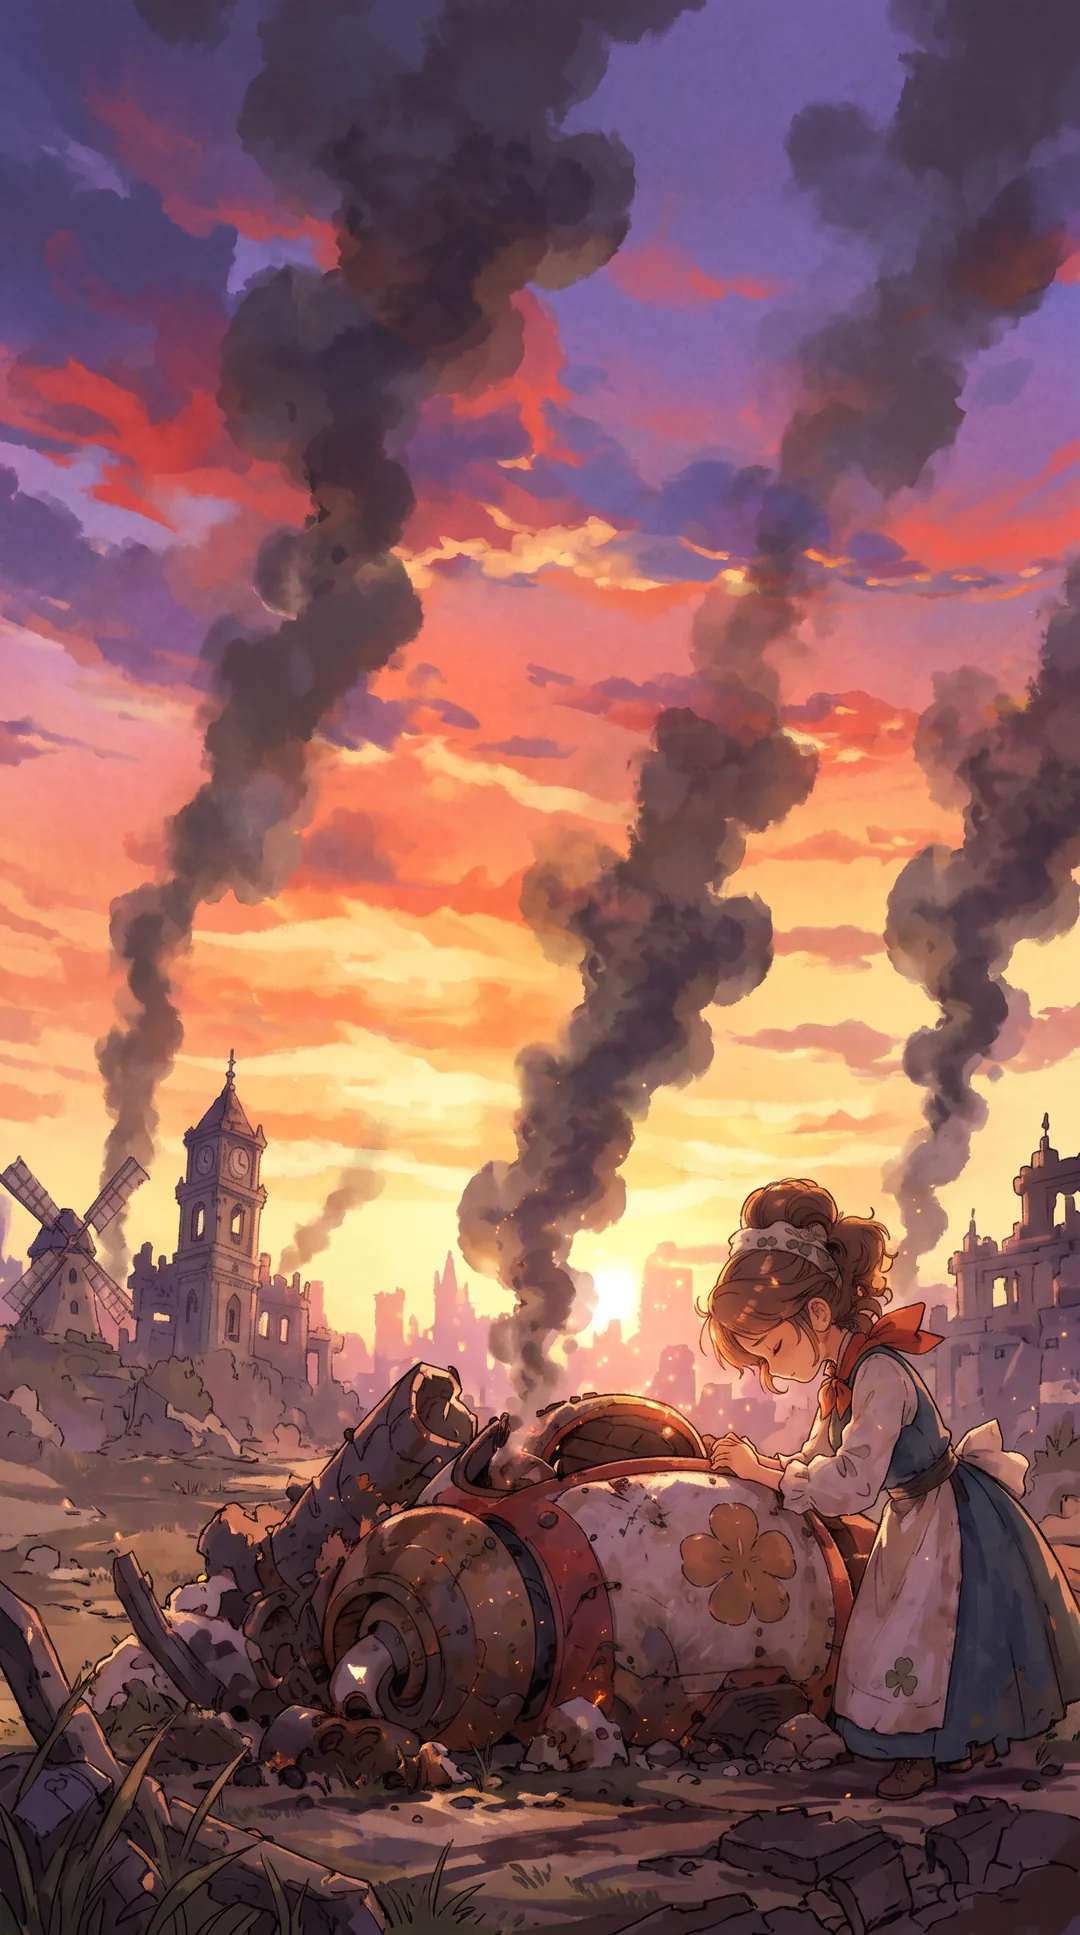
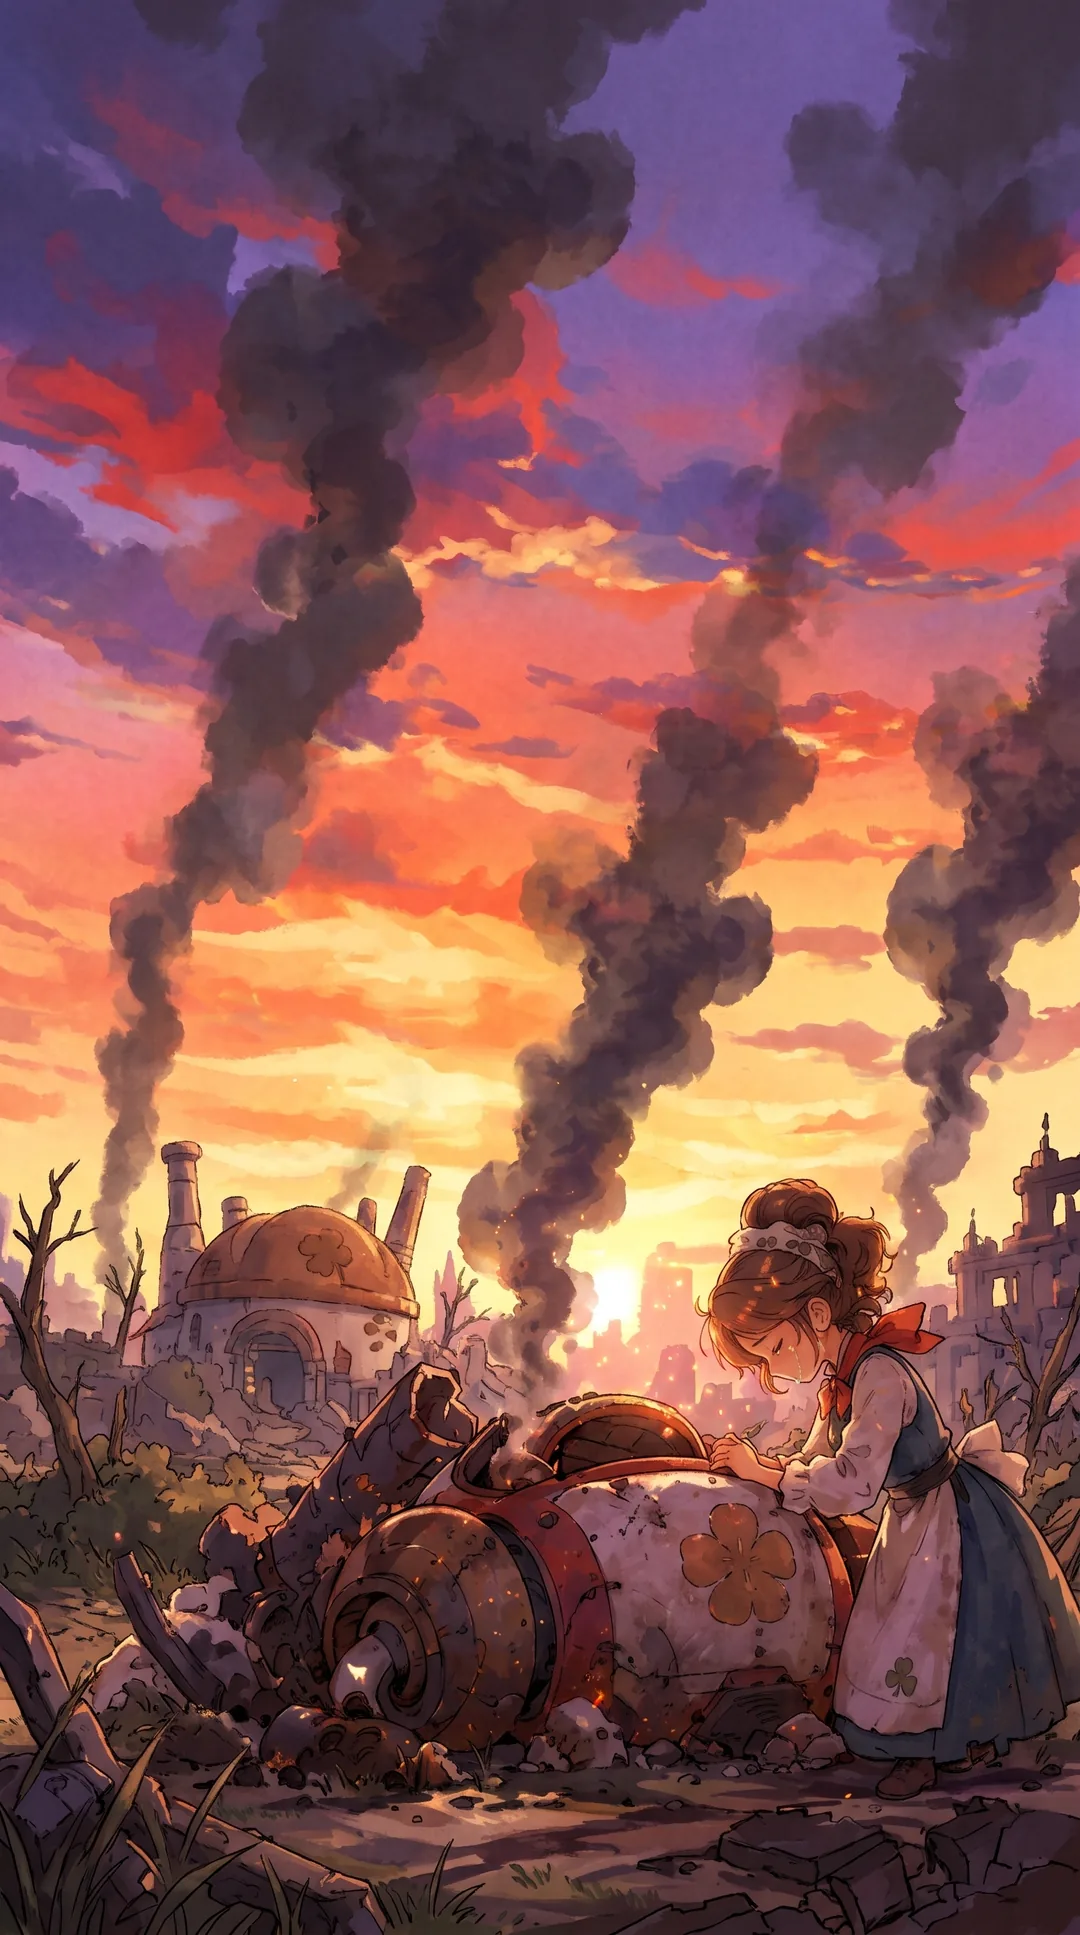
fuwao-3D: portrait/landscape ending images; ram needs the warning

diff --git a/game/fuwao-3D/main.js b/game/fuwao-3D/main.js
@@ -1926,6 +1926,7 @@ function startFinale() {
   const out = new THREE.Vector3(feet.x - boss.position.x, 0, feet.z - boss.position.z).normalize();   // ボスからふわおへ
   finale = { t: 0, phase: 'glow', out, look: new THREE.Vector3(), faded: false, burst: false, wreck: false, puff: 0, dust: [] };
   savingOn = false;   // つづきからは、最後の体当たりの前から
+  document.getElementById('endingImg').src = endingSrc();   // エンディングの絵を先に読んでおく
   // ロボははね返されて、パン種は顔の中へ
   jetting = false; jetEndTime = 0; jetSpeed = 0;
   jetVel.copy(out).multiplyScalar(RAM_BOUNCE * 1.4);
@@ -2076,30 +2077,47 @@ function finaleCamera(dt) {
   }
   sky.position.copy(camera.position);
 }
-// エンディング：縦長の絵（ending1.webp）を、空から下のメカとパン屋のお姉さんまで、ゆっくりスクロールする。
-// 下まで来たら、タイトルと「タイトルにもどる」が浮かぶ
-const ENDING_WAIT = 2.0;     // 絵が出てからスクロールし始めるまで（秒）
-const ENDING_SCROLL = 14;    // スクロールの長さ（秒）
-const ENDING_TALL = 1.5;     // 絵の高さは、画面の高さのこの倍以上にする（スマホの縦画面でもスクロールさせるため）
-const ENDING_FOCUS_X = 0.62; // 最後に画面のまん中に来る、絵の横の位置（メカとパン屋のお姉さん）
+// エンディング：画面の向きで絵と動きを使い分ける
+//   縦長の画面：縦の絵（ending1.webp）を、煙の立つ空から下のメカとパン屋のお姉さんまでスクロールする
+//   横長の画面：横の絵（ending1h.webp）を、左の崩れたパン工房から右のメカとお姉さんまで横に流す
+// 終わったら、タイトルと「タイトルにもどる」が浮かぶ
+const ENDING_WAIT = 2.0;     // 絵が出てから動き始めるまで（秒）
+const ENDING_SCROLL = 14;    // 動いている長さ（秒）
+const ENDING_TALL = 1.5;     // 縦の絵：高さは画面の高さのこの倍以上（スマホの縦画面でもスクロールさせるため）
+const ENDING_WIDE = 1.4;     // 横の絵：幅は画面の幅のこの倍以上（横に流すため）
+// 最後に画面のまん中に来る、絵の中の位置（メカとお姉さん）。[横, 縦]。横の絵は、上に浮かぶタイトルがお姉さんの頭にかからないよう少し上寄り
+const ENDING_FOCUS = { tall: [0.62, 1], wide: [0.8, 0.45] };
+const endingWide = () => window.innerWidth >= window.innerHeight;
+function endingSrc() { return endingWide() ? 'ending1h.webp' : 'ending1.webp'; }
 function showEnding() {
   finale.phase = 'ending';
   document.body.classList.remove('cutin');
   endingEl.classList.add('on');
   const img = document.getElementById('endingImg');
+  const src = endingSrc();
   const run = () => {
-    // 画面の幅より狭くせず、高さは画面の ENDING_TALL 倍以上。横にはみ出すときは、下へ進みながら横にもずらす
     const vw = window.innerWidth, vh = window.innerHeight, aspect = img.naturalWidth / img.naturalHeight;
-    const h = Math.max(vh * ENDING_TALL, vw / aspect), w = h * aspect;
+    const clampX = (x, w) => THREE.MathUtils.clamp(x, vw - w, 0), clampY = (y, h) => THREE.MathUtils.clamp(y, vh - h, 0);
+    let w, h, from, to;
+    if (src === 'ending1h.webp') {
+      // 横：左はしから、右のお姉さんまで。縦の位置はメカとお姉さんが入る高さ
+      w = Math.max(vw * ENDING_WIDE, vh * aspect); h = w / aspect;
+      const [fx, fy] = ENDING_FOCUS.wide, y = clampY(vh / 2 - fy * h, h);
+      from = [0, y]; to = [clampX(vw / 2 - fx * w, w), y];
+    } else {
+      // 縦：いちばん上の空から、下のメカとお姉さんまで。横にはみ出すときは、下へ進みながら横にもずらす
+      h = Math.max(vh * ENDING_TALL, vw / aspect); w = h * aspect;
+      from = [(vw - w) / 2, 0]; to = [clampX(vw / 2 - ENDING_FOCUS.tall[0] * w, w), vh - h];
+    }
     img.style.width = `${w}px`;
     img.style.height = `${h}px`;
-    const x0 = (vw - w) / 2, x1 = THREE.MathUtils.clamp(vw / 2 - ENDING_FOCUS_X * w, vw - w, 0);
-    img.style.transform = `translate(${x0}px, 0px)`;
-    img.animate([{ transform: `translate(${x0}px, 0px)` }, { transform: `translate(${x1}px, ${vh - h}px)` }],
+    img.style.transform = `translate(${from[0]}px, ${from[1]}px)`;
+    img.animate([{ transform: `translate(${from[0]}px, ${from[1]}px)` }, { transform: `translate(${to[0]}px, ${to[1]}px)` }],
       { duration: ENDING_SCROLL * 1000, delay: ENDING_WAIT * 1000, easing: 'ease-in-out', fill: 'forwards' })
       .finished.then(() => endingEl.classList.add('done'));
   };
-  if (img.complete) run(); else img.addEventListener('load', run, { once: true });
+  if (img.getAttribute('src') !== src) img.src = src;
+  if (img.complete && img.naturalWidth) run(); else img.addEventListener('load', run, { once: true });
 }
 // 転がるボス：動いている間は転がり始め → 転がる（進む速さに合わせてアニメの速さを変える）、止まったら待機へ
 let rolling = 0;   // 0 止まっている / 1 転がり始め / 2 転がっている
@@ -2188,7 +2206,8 @@ function collideBoss(dt) {
   ramCooldown -= dt;
   // 魔法のパン種を付けたまま、町を転げまわる脅威の顔（正面）にジェットで体当たりすると、最後の演出へ。
   // 顔は地面から 20m ほどの高さにあって届きにくいので、玉の正面（顔の向きから FACE_HIT_ANGLE 以内）にぶつかれば当たりにする
-  if (items.has('yeast') && bossRoaming() && jetVel.length() > RAM_MIN_SPEED) {
+  // 町長の警告（はじめて発射しようとしたとき）を聞くまでは、体当たりしてもはね返されるだけ
+  if (items.has('yeast') && mayorWarned && bossRoaming() && jetVel.length() > RAM_MIN_SPEED) {
     const face = boss.getObjectByName('RB_Plate_Face');
     bossSpikes.getWorldPosition(_bc);
     if (face && Math.hypot(feet.x - _bc.x, feet.y + ROBOT_HEIGHT / 2 - _bc.y, feet.z - _bc.z) < bossSpikeRadius + RADIUS + 0.5) {

diff --git a/game/fuwao-3D/index.html b/game/fuwao-3D/index.html
@@ -304,7 +304,7 @@
 <div id="hurt"></div>
 <div id="fade"></div>
 <div id="flash"></div>
-<div id="ending"><img id="endingImg" src="ending1.webp" alt=""><div class="credit"><div class="title">たすけあいヒーロー ふわお</div><button class="start" onclick="location.reload()">タイトルにもどる</button></div></div>
+<div id="ending"><img id="endingImg" alt=""><div class="credit"><div class="title">たすけあいヒーロー ふわお</div><button class="start" onclick="location.reload()">タイトルにもどる</button></div></div>
 <div id="hud"></div>
 <script type="module" src="main.js"></script>
 </body>
